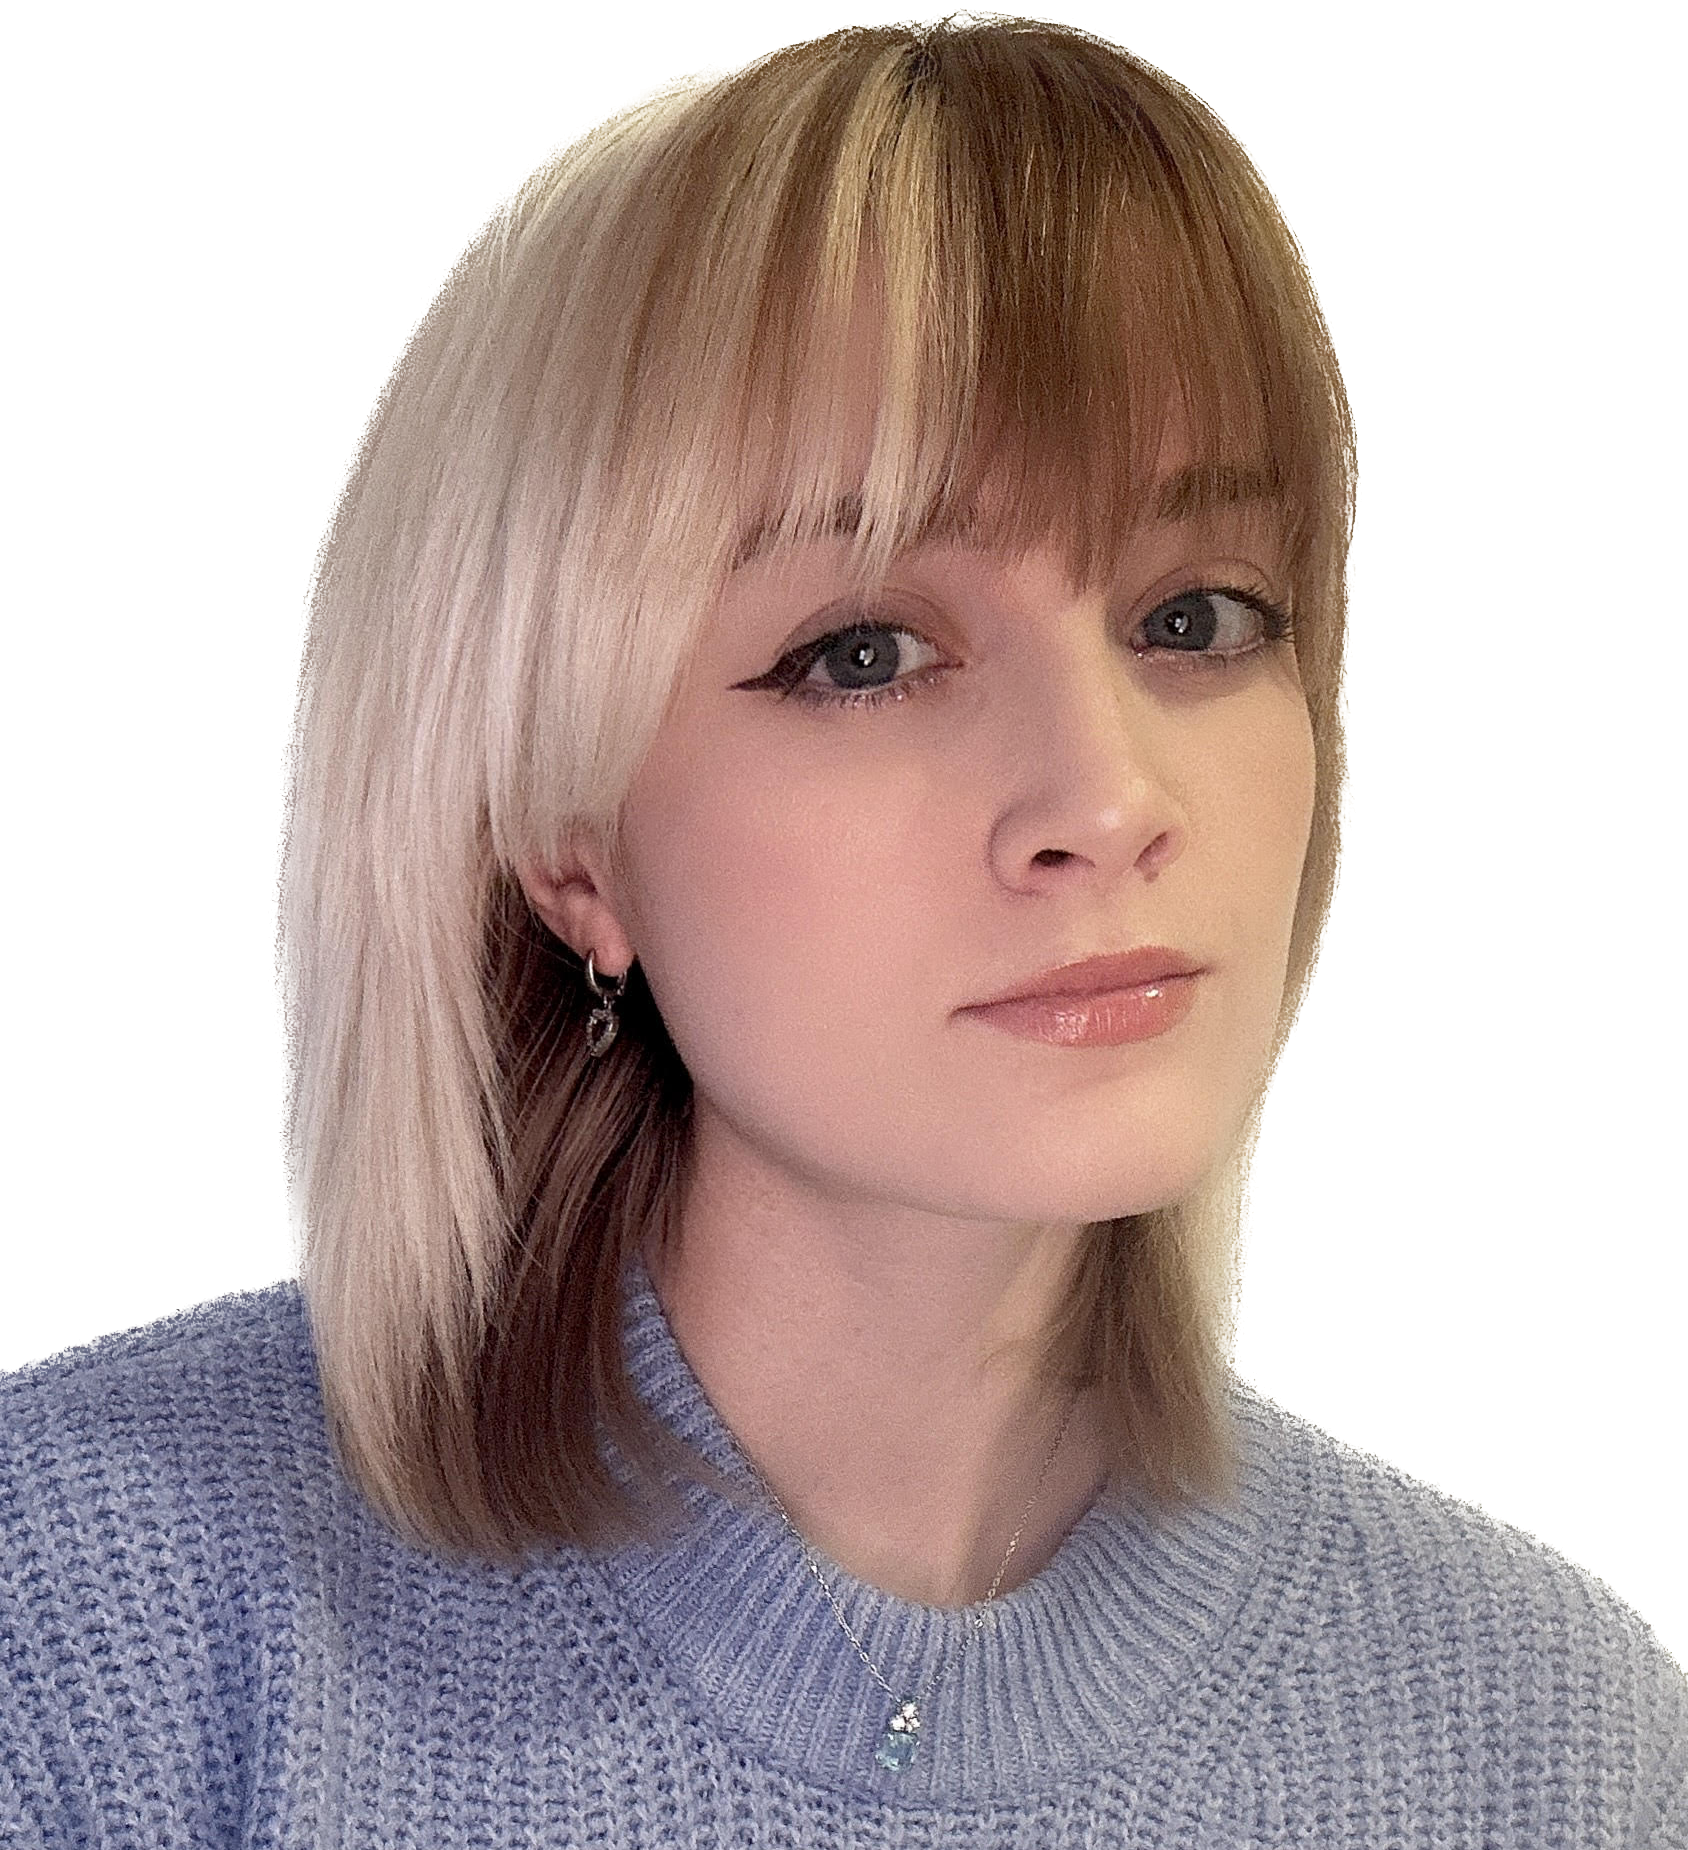
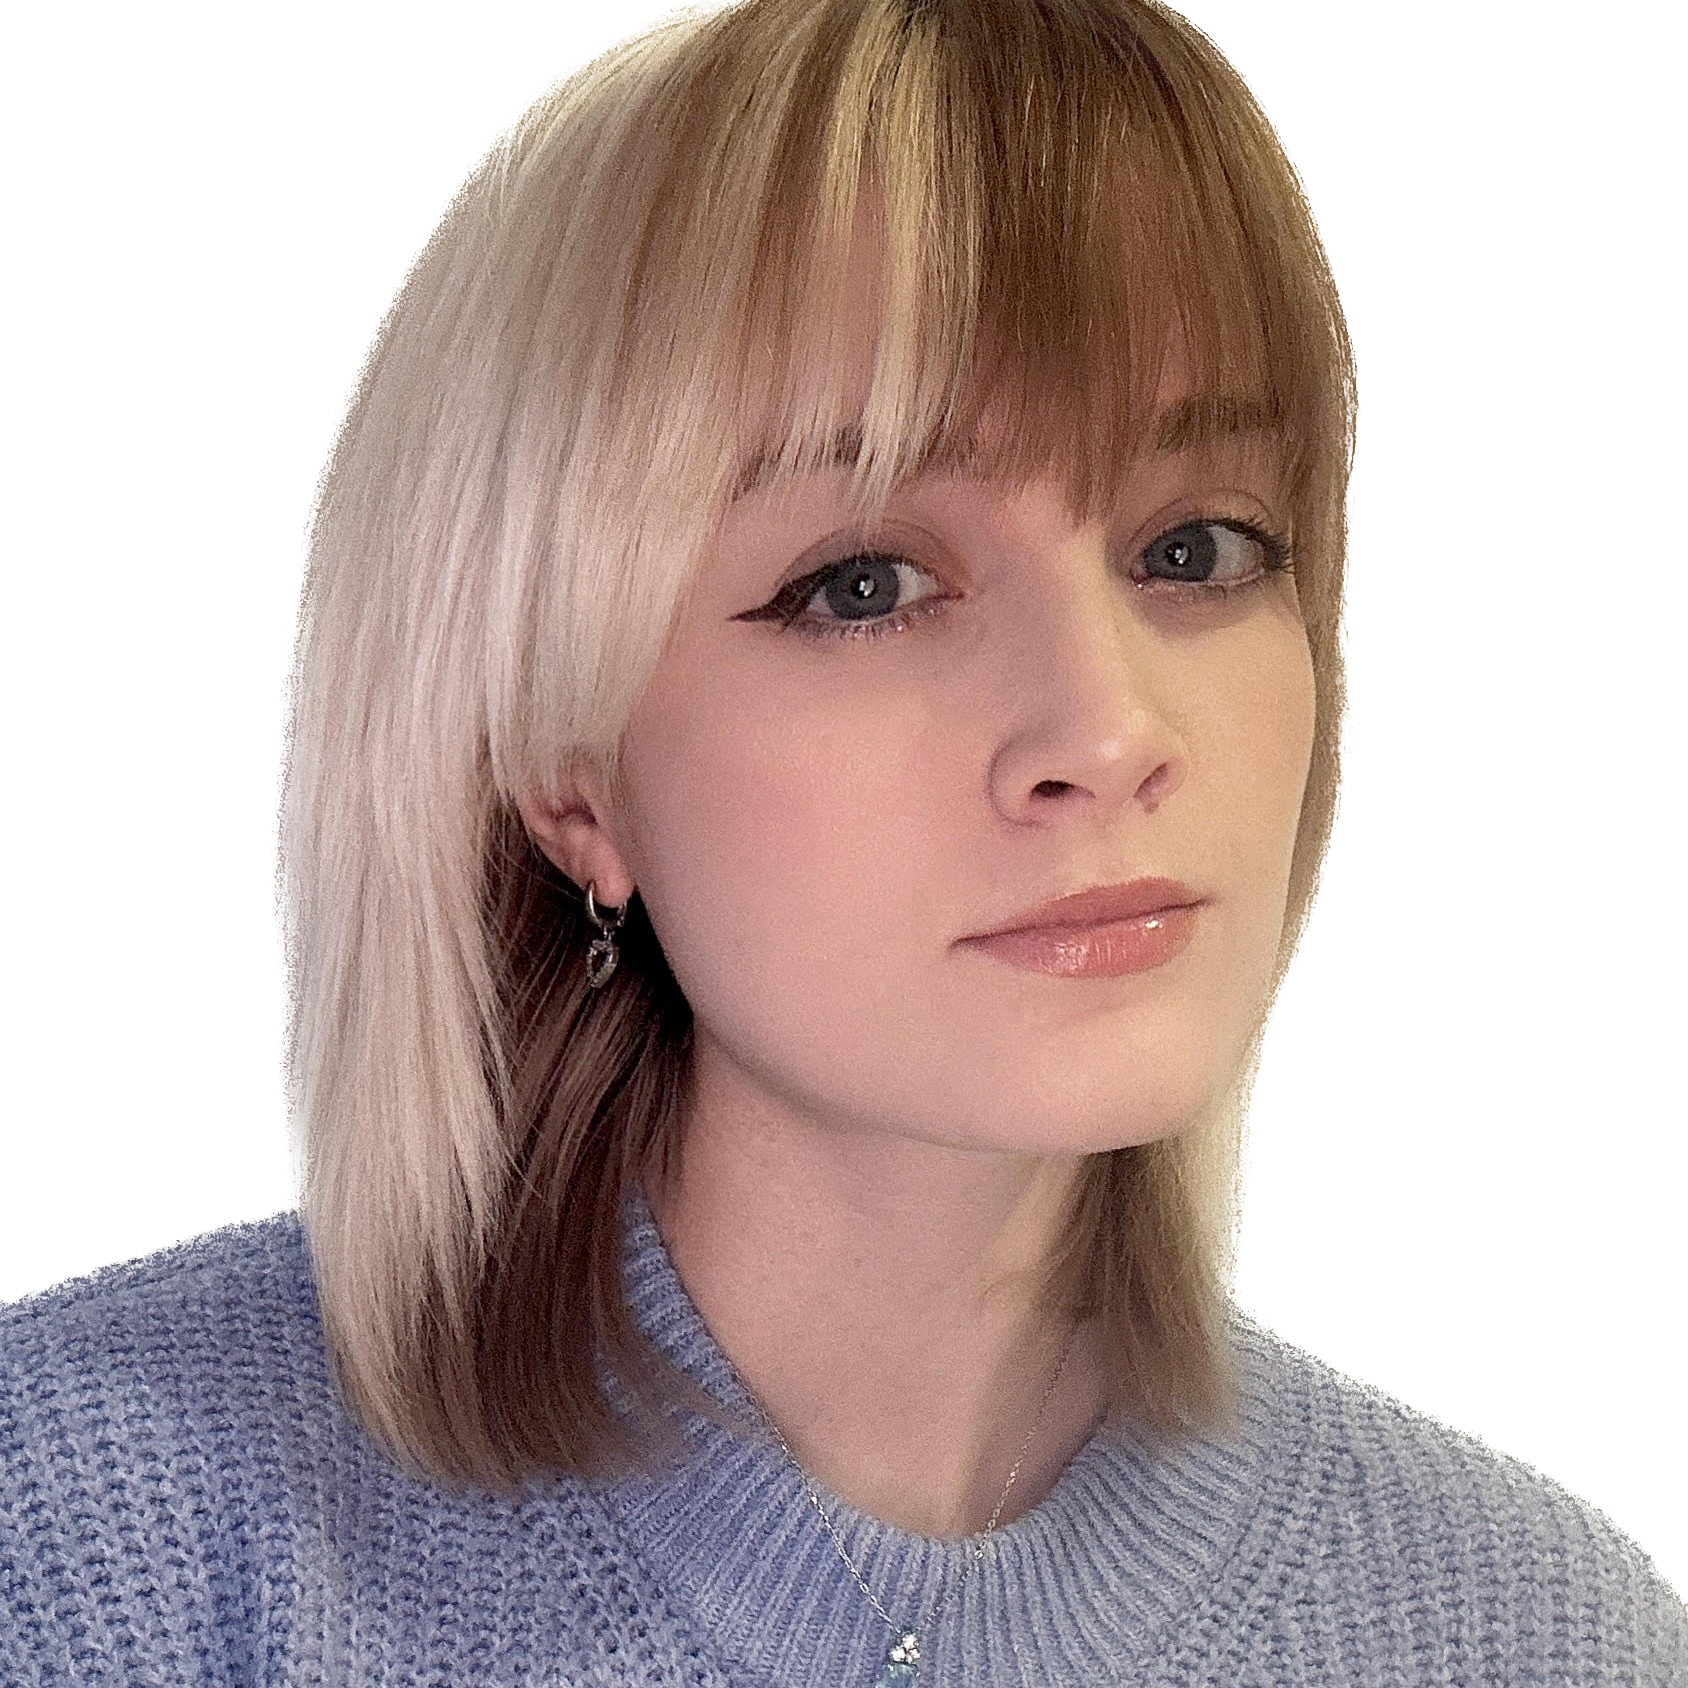
added info

Changed region(s): [[0.0, 0.0, 1.0, 1.0], [0.5853, 0.4621, 0.6469, 0.4929], [0.154, 0.4313, 0.1848, 0.4621]]

diff --git a/src/info/Info.js b/src/info/Info.js
@@ -25,7 +25,7 @@ of what each of the values mean.
 export const info = {
     firstName: "Rachael",
     lastName: "Yonoff",
-    initials: "ry", // the example uses first and last, but feel free to use three or more if you like.
+    initials: "RY", // the example uses first and last, but feel free to use three or more if you like.
     position: "a Systems Engineer",
     selfPortrait: self, // don't change this unless you want to name your self-portrait in the "img" folder something else!
     gradient: `-webkit-linear-gradient(135deg, ${colors})`, // don't change this either
@@ -61,43 +61,54 @@ export const info = {
             icon: "fa fa-linkedin",
             label: 'linkedin'
         },
+    
       
 // Feel free to remove any of these that you don't have. I'll write an FAQ on how to add new ones later, let me know if you have a request for an icon!
 // Just change the links so that they lead to your social profiles.
 
     ],
-    bio: "Hello! I'm Rachael. I'm a Systems Engineer for Leidos UK. I studied Digital Culture at King's College London, I enjoy long walks on the beach, and I believe artificial intelligence will inevitably rule us all one day. You should hire me!",
+    bio: "Hello! I'm Rachael. I'm a Systems Engineer for Leidos UK. I studied Digital Culture at King's College London, and have a huge desire to be creative. Feel free to contact me!",
     skills:
         {
-            proficientWith: ['javascript', 'react', 'git', 'github', 'bootstrap', 'html5', 'css3', 'figma'],
-            exposedTo: ['nodejs', 'python', 'adobe illustrator']
+            proficientWith: ['javascript', 'react', 'git', 'github', 'bootstrap', 'html5', 'css3', 'figma', 'agile', 'canva'],
+            exposedTo: ['nodejs', 'python', 'adobe photoshop', 'django', 'salesforce', 'mongoDB', 'express', 'sql', 'java','heroku', 'netlify', 'typescript']
         }
     ,
     hobbies: [
         {
-            label: 'reading',
-            emoji: '📖'
+            label: 'gaming',
+            emoji: '🎮'
         },
         {
             label: 'theater',
-            emoji: '🎭'
+            emoji: '🎭',
+            link: "https://letterboxd.com/movierach/"
         },
         {
             label: 'movies',
             emoji: '🎥'
         },
         {
-            label: 'cooking',
-            emoji: '🌶'
+            label: 'baking',
+            emoji: '👩🍳'
+        },
+        { 
+            label: 'traveling',
+            emoji: '✈'
+
+        },
+        {
+            label:'rowing',
+            emoji: '🚣♀'
         }
 // Same as above, change the emojis to match / relate to your hobbies or interests.
 // You can also remove the emojis if you'd like, I just think they look cute :P
     ],
     portfolio: [ // This is where your portfolio projects will be detailed
         {
-            title: "Project 1",
-            live: "https://paytonpierce.dev", //this should be a link to the live version of your project, think github pages, netlify, heroku, etc. Or your own domain, if you have it.
-            source: "https://github.com/paytonjewell", // this should be a link to the **repository** of the project, where the code is hosted.
+            title: "Thyme's Up - Fridge/Recipe App",
+            live: "https://thymesup.netlify.app/", //this should be a link to the live version of your project, think github pages, netlify, heroku, etc. Or your own domain, if you have it.
+            source: "https://github.com/Tea-Thyme/Thyme-Frontend", // this should be a link to the **repository** of the project, where the code is hosted.
             image: mock1
         },
         {

diff --git a/src/components/home/Home.js b/src/components/home/Home.js
@@ -6,15 +6,47 @@ import EmojiBullet from "./EmojiBullet";
 import SocialIcon from "./SocialIcon";
 import {Box} from "@mui/material";
 import {info} from "../../info/Info";
+import { styled } from '@mui/material/styles';
+
+const MorphingImage = styled(Box)({
+   animation: 'morph 8s ease-in-out infinite',
+   borderRadius: '60% 40% 30% 70% / 60% 30% 70% 40%',
+   position: 'relative',
+   transition: 'all 1s ease-in-out',
+   '@keyframes morph': {
+     '0%': {
+       borderRadius: '60% 40% 30% 70% / 60% 30% 70% 40%',
+     },
+     '50%': {
+       borderRadius: '30% 60% 70% 40% / 50% 60% 30% 60%',
+     },
+     '100%': {
+       borderRadius: '60% 40% 30% 70% / 60% 30% 70% 40%',
+     },
+   },
+ });
 
 export default function Home() {
 
    return (
       <Box component={'main'} display={'flex'} flexDirection={{xs: 'column', md: 'row'}} alignItems={'center'}
            justifyContent={'center'} minHeight={'calc(100vh - 175px)'}>
-         <Box className={classNames(Style.avatar, Style.shadowed)} alt={'image of developer'} style={{background: info.gradient}} component={'img'} src={me} width={{xs: '35vh', md: '40vh'}}
+         {/* <Box className={classNames(Style.avatar, Style.shadowed)} alt={'image of developer'} style={{background: info.gradient}} component={'img'} src={me} width={{xs: '35vh', md: '40vh'}}
               height={{xs: '35vh', md: '40vh'}}
-              borderRadius={'50%'} p={'0.75rem'} mb={{xs: '1rem', sm: 0}} mr={{xs: 0, md: '2rem'}}/>
+              
+              borderRadius={'50%'} p={'0.95rem'} mb={{xs: '1rem', sm: 0}} mr={{xs: 0, md: '2rem'}}/> */}
+              <MorphingImage
+                  className={classNames(Style.avatar, Style.shadowed)}
+                  alt={'image of developer'}
+                  style={{ background: info.gradient }}
+                  component={'img'}
+                  src={me}
+                  width={{ xs: '35vh', md: '40vh' }}
+                  height={{ xs: '35vh', md: '40vh' }}
+                  p={'0.95rem'}
+                  mb={{ xs: '1rem', sm: 0 }}
+                  mr={{ xs: 0, md: '2rem' }}
+                  />
          <Box>
             <h1>Hi, I'm <span style={{background: info.gradient, WebkitBackgroundClip: 'text', WebkitTextFillColor: 'transparent'}}>{info.firstName}</span><span className={Style.hand}>🤚</span>
             </h1>
@@ -24,7 +56,7 @@ export default function Home() {
                   <EmojiBullet key={index} emoji={bio.emoji} text={bio.text}/>
                ))}
             </Box>
-            <Box display={'flex'} gap={'1.5rem'} justifyContent={'center'} fontSize={{xs: '2rem', md: '2.5rem'}}>
+            <Box display={'flex'} gap={'1rem'} justifyContent={'flex-start'} fontSize={{xs: '2rem', md: '2.5rem'}}>
                {info.socials.map((social, index) => (
                   <SocialIcon key={index} link={social.link} icon={social.icon} label={social.label} />
                ))}

diff --git a/src/App.module.scss b/src/App.module.scss
@@ -8,7 +8,7 @@ body {
     width: 100%;
     height: 100%;
     color: $dark;
-    background-color: $white;
+    background-color: rgb(236, 227, 206);
     box-sizing: border-box;
 }
 

diff --git a/src/components/BaseLayout.module.scss b/src/components/BaseLayout.module.scss
@@ -24,7 +24,7 @@ footer {
 }
 
 .light {
-  background-color: $white;
+  background-color: rgb(250, 241, 228);
   color: $dark;
   transition: all 400ms;
 }

diff --git a/src/components/home/Home.module.scss b/src/components/home/Home.module.scss
@@ -33,7 +33,7 @@ a {
 }
 
 a:hover {
-  color: $lightgray;
+  color: rgb(95, 111, 82);
   transition: color 200ms ease;
 }
 
